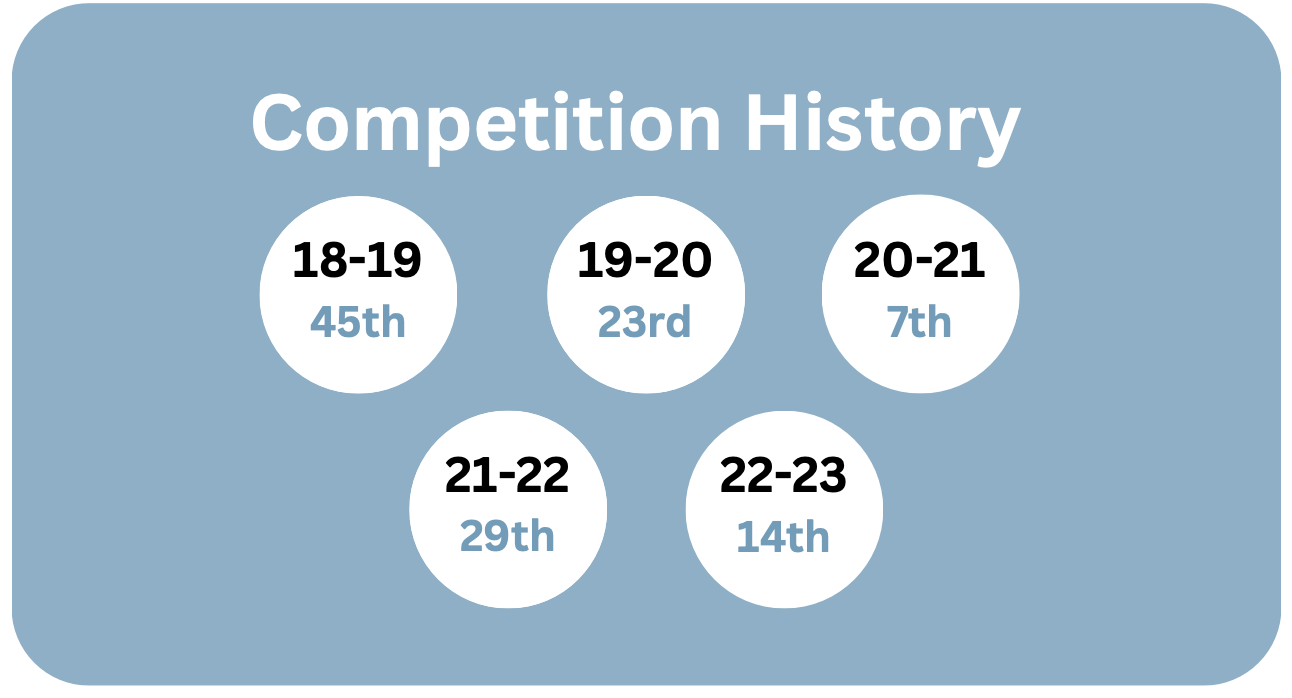
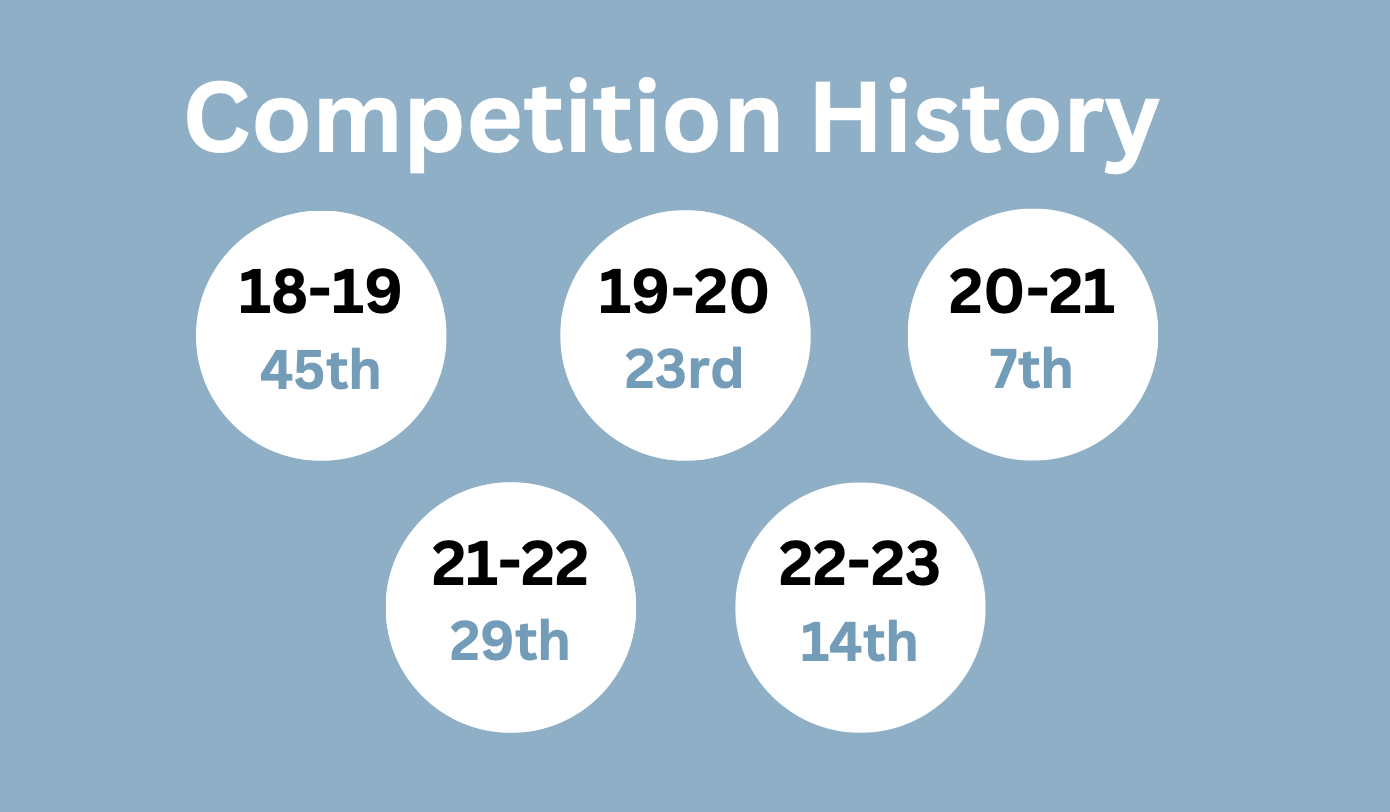
Fixed styling

diff --git a/about.html b/about.html
@@ -75,7 +75,8 @@
                     real-world operation and post-mission summary. Last year, we placed 14th in
                     the World, and 5th in the United States out of over 100 particpating teams.
                 </p>
-                <img src="sponsors/organization.png" alt="Organization Photo" style="width: 100%; display: block; margin: 0 0;">
+                <br>
+                <img src="sponsors/organization.png" alt="Organization Photo" style="width: 100%; display: block; margin: 0 0; border-radius: 10px;">
                     
             </div>
 
@@ -105,7 +106,7 @@
                         <h2>HISTORY</h2>
                     </div>
                     <div class="home-page-team-info">
-                        <img src="sponsors/history.png" alt="History Photo">
+                        <img src="sponsors/history.png" alt="History Photo" style="border-radius: 10%;">
                         <p>
                             UCI AntSat was founded in 2017 by a group of undergraduate students at UC Irvine
                             with the mission to compete in the American Astronautical Society International
@@ -181,7 +182,8 @@
                     determine which CanSat design performs
                     the best.
                 </p>
-                <img src="sponsors/competition.png" alt="Competition Timeline Photo" style="width: 100%; display: block; margin: 0 0;">
+                <br>
+                <img src="sponsors/competition.png" alt="Competition Timeline Photo" style="width: 100%; display: block; margin: 0 0; border-radius: 20px;">
             </div>   
             
             <br>
@@ -209,7 +211,7 @@
         </div>
 
         <h2>THANK YOU!!</h2>
-        <h3 style="width: 60%; text-align: center; margin: auto auto; margin-bottom: 60px;">On behalf of UCI CanSat, our team would like
+        <h3 style="width: 60%; text-align: center; margin: auto auto; margin-bottom: 80px;">On behalf of UCI CanSat, our team would like
             to thank you for your interest in sponsoring
             our team! If you have any questions about our
             team, feel free to contact us at
